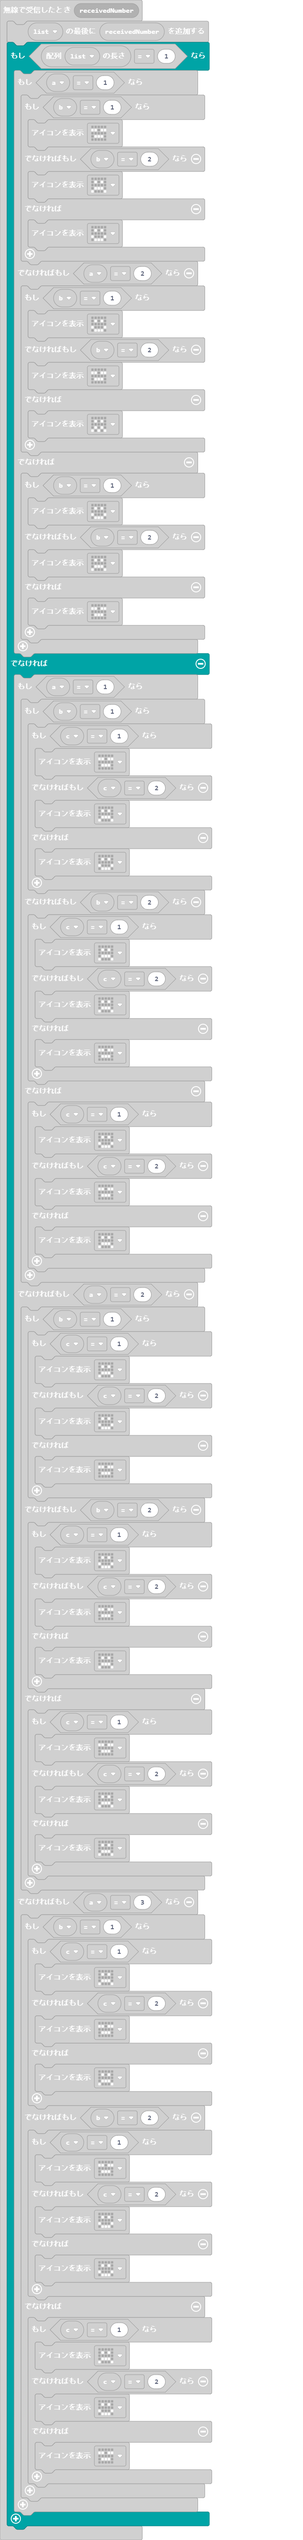
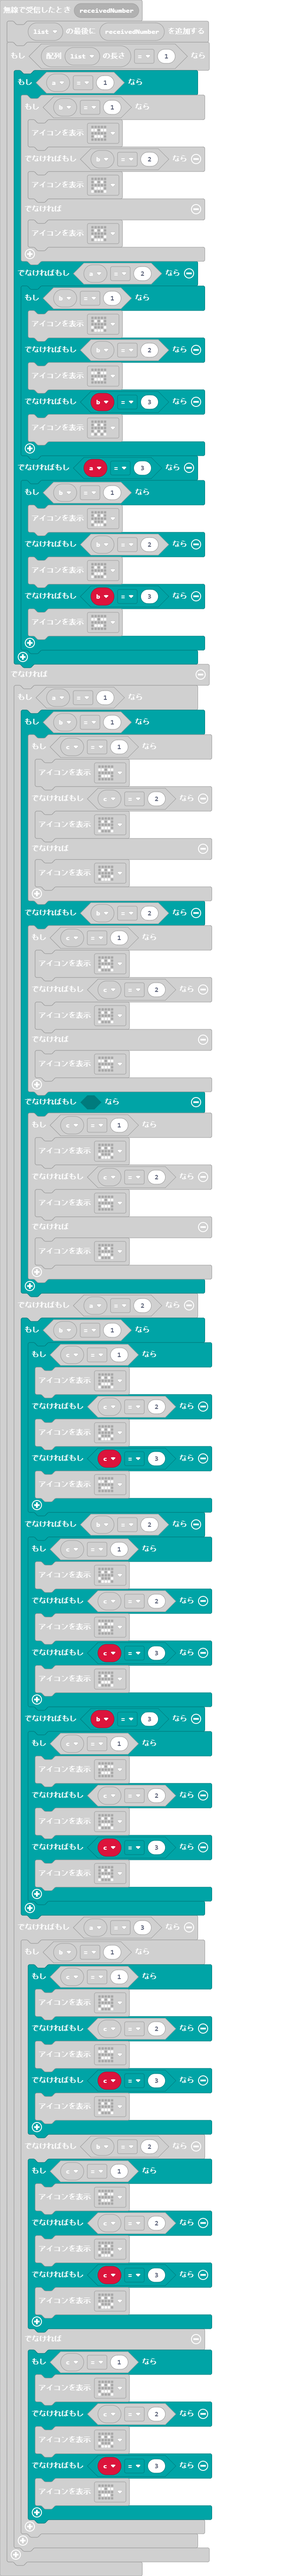
Update main.blocks, main.ts

diff --git a/main.ts b/main.ts
@@ -14,15 +14,15 @@ radio.onReceivedNumber(function (receivedNumber) {
                 basic.showIcon(IconNames.Happy)
             } else if (b == 2) {
                 basic.showIcon(IconNames.Asleep)
-            } else {
+            } else if (b == 3) {
                 basic.showIcon(IconNames.Confused)
             }
-        } else {
+        } else if (a == 3) {
             if (b == 1) {
                 basic.showIcon(IconNames.Happy)
             } else if (b == 2) {
                 basic.showIcon(IconNames.Sad)
-            } else {
+            } else if (b == 3) {
                 basic.showIcon(IconNames.Asleep)
             }
         }
@@ -44,7 +44,7 @@ radio.onReceivedNumber(function (receivedNumber) {
                 } else {
                     basic.showIcon(IconNames.Asleep)
                 }
-            } else {
+            } else if (false) {
                 if (c == 1) {
                     basic.showIcon(IconNames.Happy)
                 } else if (c == 2) {
@@ -59,7 +59,7 @@ radio.onReceivedNumber(function (receivedNumber) {
                     basic.showIcon(IconNames.Sad)
                 } else if (c == 2) {
                     basic.showIcon(IconNames.Happy)
-                } else {
+                } else if (c == 3) {
                     basic.showIcon(IconNames.Asleep)
                 }
             } else if (b == 2) {
@@ -67,15 +67,15 @@ radio.onReceivedNumber(function (receivedNumber) {
                     basic.showIcon(IconNames.Happy)
                 } else if (c == 2) {
                     basic.showIcon(IconNames.Asleep)
-                } else {
+                } else if (c == 3) {
                     basic.showIcon(IconNames.Sad)
                 }
-            } else {
+            } else if (b == 3) {
                 if (c == 1) {
                     basic.showIcon(IconNames.Asleep)
                 } else if (c == 2) {
                     basic.showIcon(IconNames.Sad)
-                } else {
+                } else if (c == 3) {
                     basic.showIcon(IconNames.Sad)
                 }
             }
@@ -85,7 +85,7 @@ radio.onReceivedNumber(function (receivedNumber) {
                     basic.showIcon(IconNames.Sad)
                 } else if (c == 2) {
                     basic.showIcon(IconNames.Asleep)
-                } else {
+                } else if (c == 3) {
                     basic.showIcon(IconNames.Sad)
                 }
             } else if (b == 2) {
@@ -93,7 +93,7 @@ radio.onReceivedNumber(function (receivedNumber) {
                     basic.showIcon(IconNames.Asleep)
                 } else if (c == 2) {
                     basic.showIcon(IconNames.Happy)
-                } else {
+                } else if (c == 3) {
                     basic.showIcon(IconNames.Happy)
                 }
             } else {
@@ -101,7 +101,7 @@ radio.onReceivedNumber(function (receivedNumber) {
                     basic.showIcon(IconNames.Sad)
                 } else if (c == 2) {
                     basic.showIcon(IconNames.Happy)
-                } else {
+                } else if (c == 3) {
                     basic.showIcon(IconNames.Asleep)
                 }
             }
